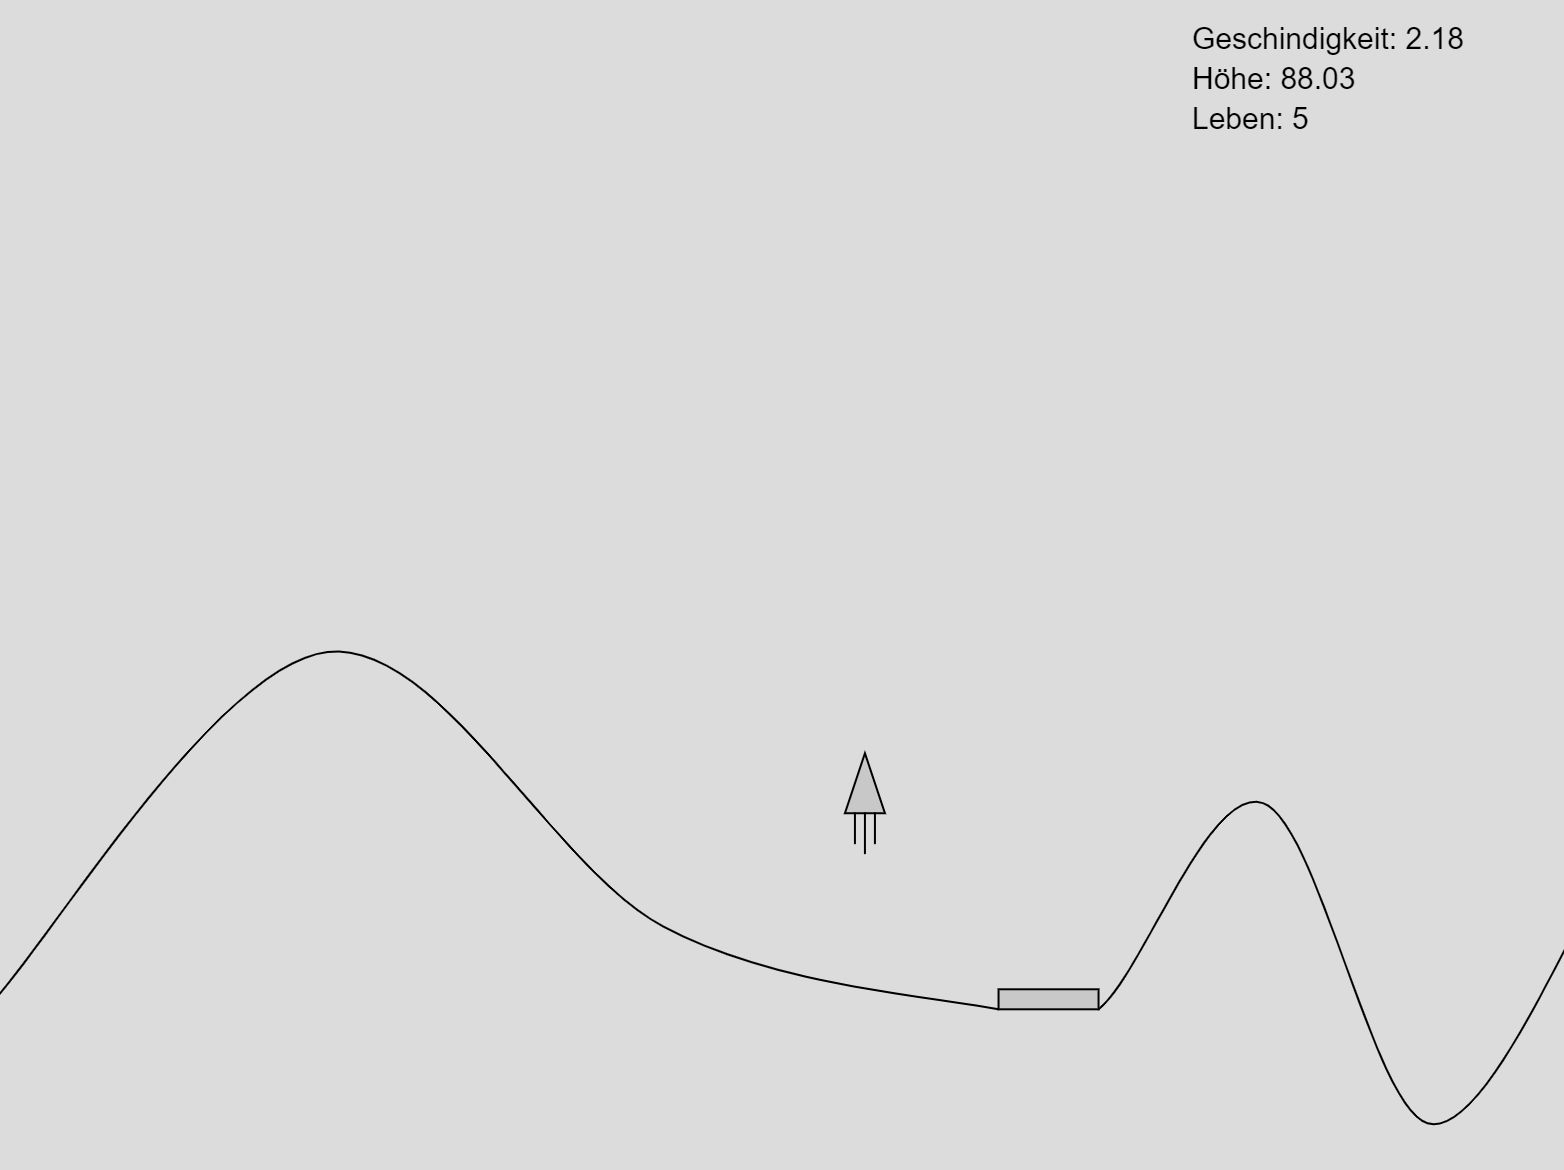
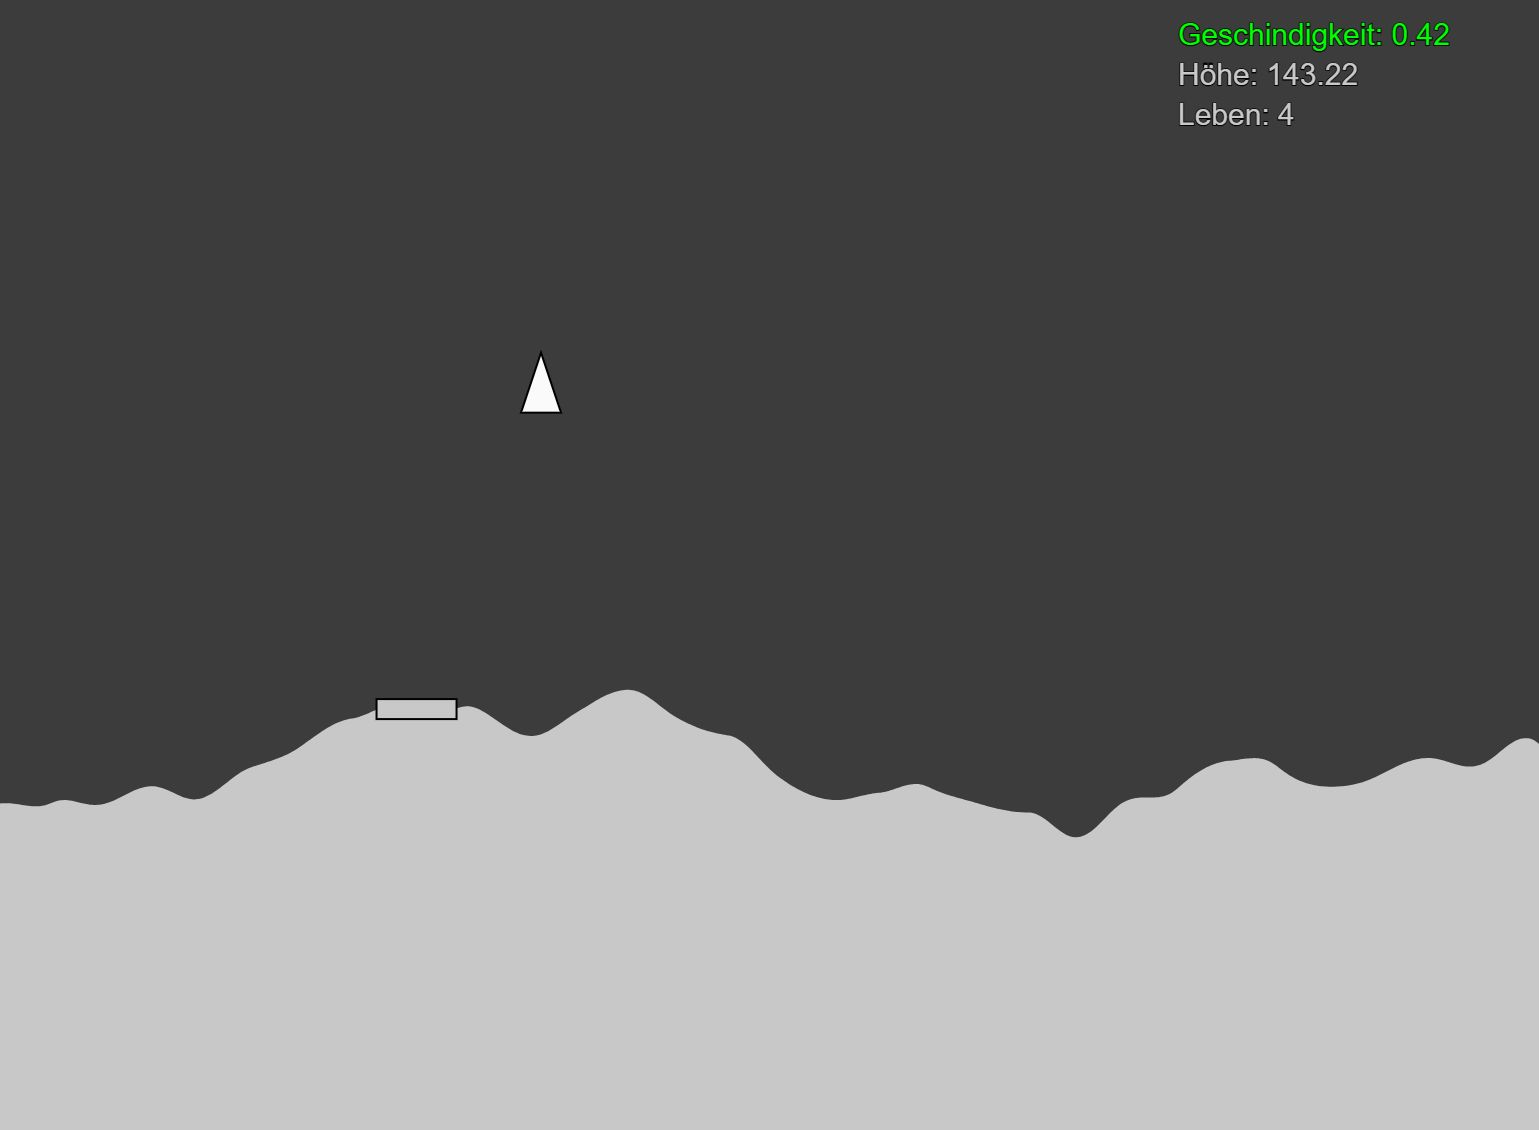
Ground und Wind mit Perlin Noise

diff --git a/lander/ground.js b/lander/ground.js
@@ -7,30 +7,46 @@ class Ground {
     this.r4 = random(300, 600);
     this.r5 = random(300, 600);
     this.r6 = random(300, 600);
+    this.leftGround = [];
+    this.rightGround = [];
+
+    let xoff = random(0, 100);
+    for (let i = 0; i < this.pos.x - 20; i++) {
+      let xval = i;
+      let yval = noise(xoff) * 300 + 300;
+      this.leftGround.push({x: xval, y: yval});
+      xoff = xoff + 0.005;
+    }
+    this.pos.y = noise(xoff) * 300 + 295;
+    for (let i = 0; i < width - (this.pos.x + 20); i++) {
+      xoff = xoff + 0.005;
+      let xval = this.pos.x + 20 + i;
+      let yval = noise(xoff) * 300 + 300;
+      this.rightGround.push({x: xval, y: yval});
+    }
   }
   show() {
+    noStroke();
     fill(200);
-    rect(this.pos.x, this.pos.y, 50, 10);
-    let stepL = this.pos.x / 3;
-    let stepR = (width - (this.pos.x + 50)) / 3;
-
-    noFill();
     beginShape();
-    curveVertex(0, this.r1);
-    curveVertex(0, this.r1);
-    curveVertex(stepL, this.r2);
-    curveVertex(stepL * 2, this.r3);
-    curveVertex(this.pos.x, this.pos.y + 10);
-    curveVertex(this.pos.x + 50, this.pos.y + 10);
-    endShape();
-    noFill();
+    for (let pos of this.leftGround) {
+      vertex(pos.x, pos.y);
+    }
+    vertex(this.leftGround[this.leftGround.length - 1].x + 20, this.leftGround[this.leftGround.length - 1].y);
+    vertex(this.leftGround[this.leftGround.length - 1].x + 20, height);
+    vertex(0, height);
+    endShape(CLOSE);
     beginShape();
-    curveVertex(this.pos.x, this.pos.y + 10);
-    curveVertex(this.pos.x + 50, this.pos.y + 10);
-    curveVertex(this.pos.x + 50 + stepR, this.r4);
-    curveVertex(this.pos.x + 50 + stepR * 2, this.r5);
-    curveVertex(width, this.r6);
-    curveVertex(width, this.r6);
-    endShape();
+    for (let pos of this.rightGround) {
+      vertex(pos.x, pos.y);
+    }
+    vertex(width, this.rightGround[this.rightGround.length - 1].y);
+    vertex(width, height);
+    vertex(this.rightGround[0].x - 25, height);
+    vertex(this.rightGround[0].x - 25, this.rightGround[0].y);
+    endShape(CLOSE);
+    stroke(0);
+    fill(200);
+    rect(this.pos.x - 20, this.pos.y, 40, 10);
   }
 }

diff --git a/lander/sketch.js b/lander/sketch.js
@@ -4,20 +4,21 @@ let lostLife = false;
 let gameOver = false;
 let game = true;
 let ground;
+let windOffset;
 
 function landing() {
   if (lander.bottom.y >= ground.pos.y && lander.bottom.y <= ground.pos.y + 10) {
-    if (lander.bottom.x >= ground.pos.x && lander.bottom.x <= ground.pos.x + 50) {
+    if (lander.bottom.x >= ground.pos.x - 20 && lander.bottom.x <= ground.pos.x + 20) {
       if (lander.vel.mag() <= 1 && lander.vel.y >= 0) {
         lander.pos.y = 150;
         lander.pos.x = 400;
         lander.vel.set(0, 0);
-        ground = new Ground(random(100, width - 150), random(300, height - 10));
+        ground = new Ground(random(120, width - 120), random(300, height - 10));
       } else if (lander.vel.mag() > 1) {
         lander.pos.y = 150;
         lander.pos.x = 400;
         lander.vel.set(0, 0);
-        ground = new Ground(random(100, width - 150), random(300, height - 10));
+        ground = new Ground(random(120, width - 120), random(300, height - 10));
         lostLife = true;
       }
     }
@@ -27,7 +28,8 @@ function landing() {
 function forces(item) {
   let gravity = createVector(0, 0.02);
   item.applyForce(gravity);
-  let wind = createVector(random(-0.05, 0.05), 0);
+  let wind = createVector((noise(windOffset) - 0.5) / 4, 0);
+  windOffset += 0.005;
   item.applyForce(wind);
   if (keyIsDown(LEFT_ARROW)) {
     let shubL = createVector(-0.05, 0);
@@ -46,11 +48,12 @@ function forces(item) {
 function setup() {
   createCanvas(800, 600);
   lander = new Lander(400, 150);
-  ground = new Ground(random(100, width - 150), random(300, height - 10));
+  ground = new Ground(random(120, width - 120), random(300, height - 10));
+  windOffset = random(0, 100);
 }
 
 function draw() {
-  background(220);
+  background(60);
   if (game) {
     forces(lander);
     ground.show();
@@ -72,7 +75,7 @@ function draw() {
   if (gameOver) {
     background(220);
     textSize(40);
-    fill(0);
+    fill(200);
     text('Game Over', 300, 280);
   }
 }

diff --git a/lander/lander.js b/lander/lander.js
@@ -6,8 +6,9 @@ class Lander {
     this.acc = createVector(0, 0);
   }
   show() {
-    fill(200);
+    fill(250);
     triangle(this.pos.x, this.pos.y, this.pos.x - 10, this.pos.y + 30, this.pos.x + 10, this.pos.y + 30);
+    stroke(255, 0, 0);
     if (keyIsDown(LEFT_ARROW)) {
       line(this.bottom.x + 5, this.bottom.y - 10, this.bottom.x + 25, this.bottom.y - 10);
       line(this.bottom.x + 5, this.bottom.y - 15, this.bottom.x + 20, this.bottom.y - 15);
@@ -23,11 +24,17 @@ class Lander {
       line(this.bottom.x + 5, this.bottom.y, this.bottom.x + 5, this.bottom.y + 15);
       line(this.bottom.x - 5, this.bottom.y, this.bottom.x - 5, this.bottom.y + 15);
     }
+    stroke(0);
   }
   values() {
     textSize(15);
-    fill(0);
+    if (this.vel.mag() > 1) {
+      fill(255, 0, 0)
+    } else {
+      fill(0, 255, 0)
+    }
     text(`Geschindigkeit: ${this.vel.mag().toFixed(2)}`, 600, 30);
+    fill(200);
     text(`Höhe: ${Math.round((ground.pos.y - this.bottom.y) * 100) / 100}`, 600, 50);
     text(`Leben: ${lifes}`, 600, 70);
   }
@@ -36,6 +43,7 @@ class Lander {
   }
   move() {
     this.vel.add(this.acc);
+    this.vel.limit(2);
     this.pos.add(this.vel);
     this.acc.set(0, 0);
     this.bottom.set(this.pos.x, this.pos.y + 30);
